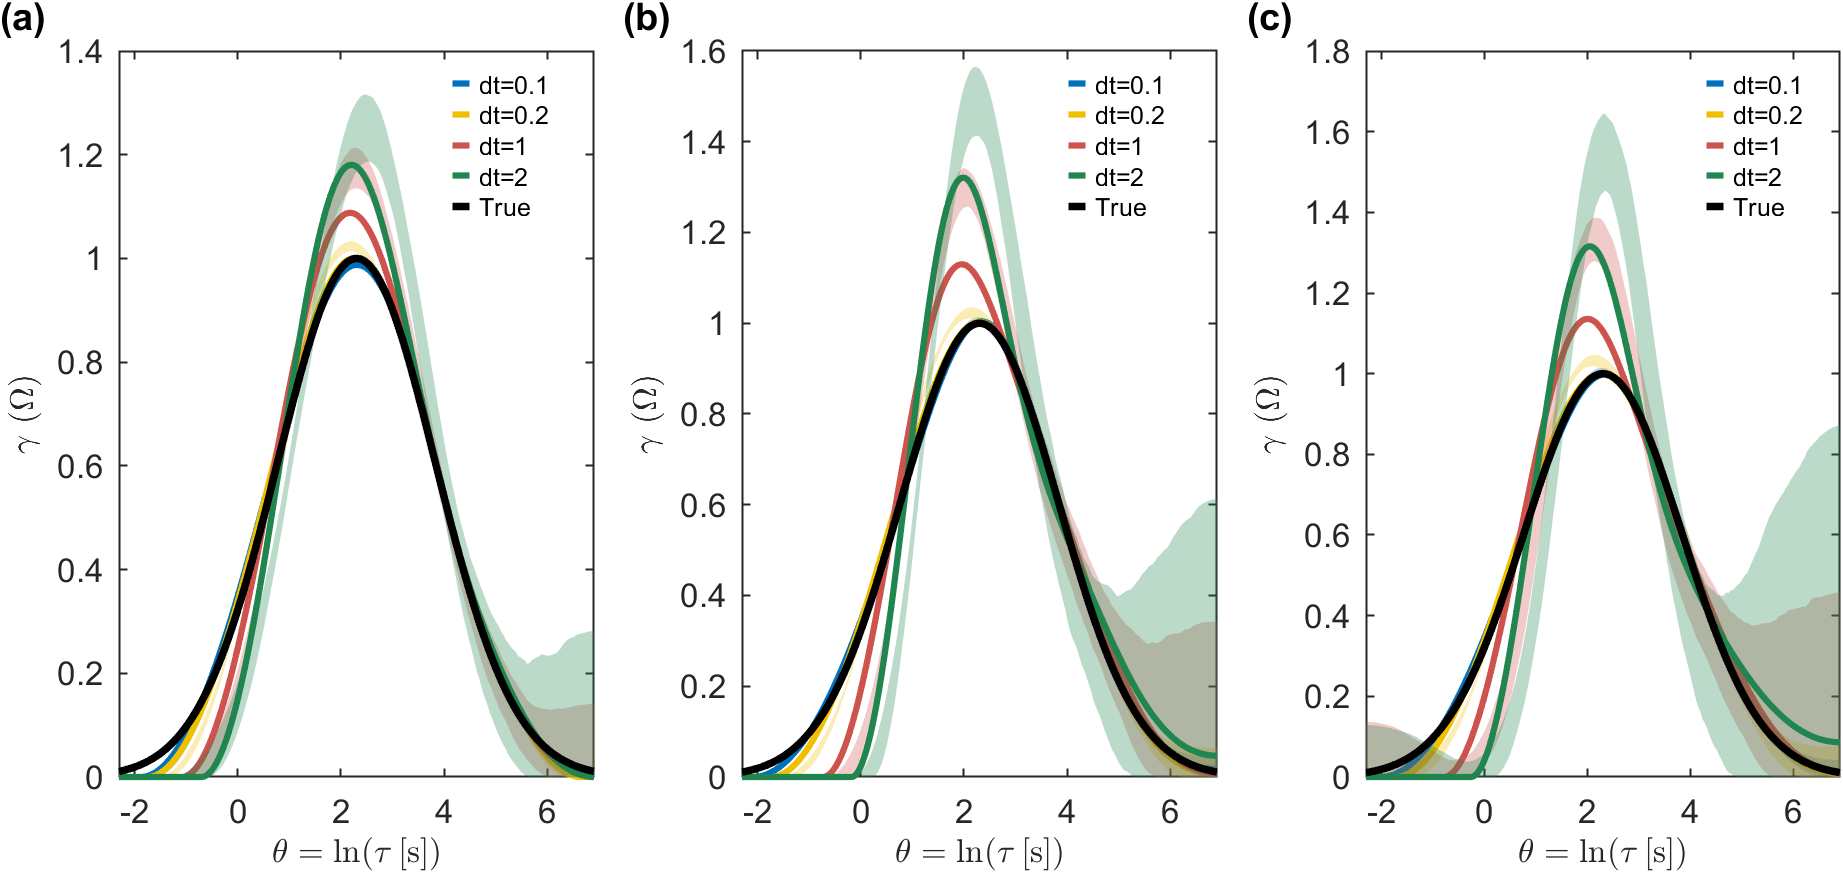
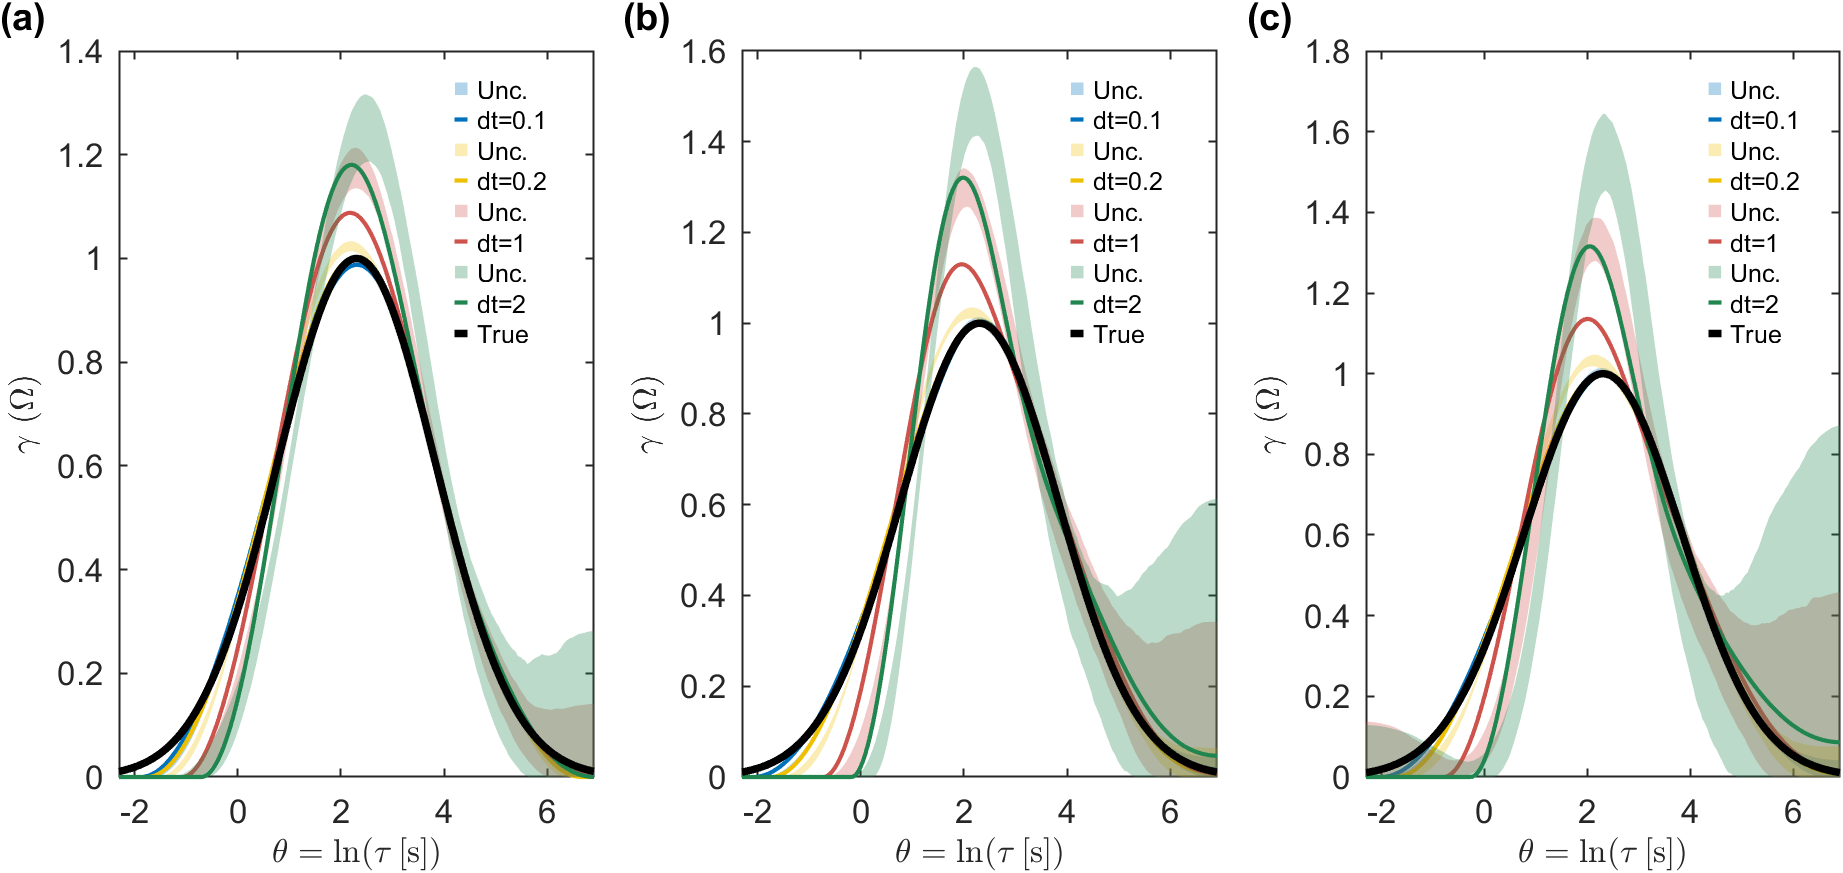
.
.

diff --git a/SD/Fig1.m b/SD/Fig1.m
@@ -36,7 +36,7 @@ annOffsetY =  0.03;
 % ---------------------------
 % (D) Line / Font styles
 % ---------------------------
-lineWidthValue    = 1.5;   % 선 굵기
+lineWidthValue    = 1;   % 선 굵기
 fillAlpha         = 0.3;   % fill 투명도
 axisFontSize      = 8;     % 축 라벨/틱 폰트 크기
 legendFontSize    = 6;     % 범례 폰트 크기
@@ -56,8 +56,7 @@ legendPosC = [0.67 0.11 0.25 0.10];  % (c)
 % ---------------------------
 %  -> (c) subplot에서 축 라벨을 축과 더 가깝게 (혹은 멀게) 조정
 currentLabelOffsetX = +0.05;  % 왼쪽 축 라벨 X 위치를 기존 대비 +0.05
-voltageLabelOffsetX = -30;  % 오른쪽 축 라벨 X 위치를 기존 대비 -0.05
-% 음수면 축 쪽으로 이동, 양수면 축 반대방향으로 이동
+voltageLabelOffsetX = -30;    % 오른쪽 축 라벨 X 위치를 기존 대비 (값 조정)
 
 %% (1) Load Data
 load('DRT_estimation_results.mat','drt_output');
@@ -111,10 +110,13 @@ gamma_est_uni   = drt_output(1).scenario(s).gamma_est;
 gamma_lower_uni = drt_output(1).scenario(s).gamma_lower;
 gamma_upper_uni = drt_output(1).scenario(s).gamma_upper;
 
-fill([theta_est_uni; flipud(theta_est_uni)], ...
+% -- Fill area for Uncertainty (now displayed in legend)
+h_fill_uni = fill([theta_est_uni; flipud(theta_est_uni)], ...
      [gamma_lower_uni; flipud(gamma_upper_uni)], ...
-     color_scenario1, 'FaceAlpha',fillAlpha, 'EdgeColor','none',...
-     'HandleVisibility','off');
+     color_scenario1, ...
+     'FaceAlpha',fillAlpha, ...
+     'EdgeColor','none', ...
+     'DisplayName','Unc.');
 hold on;
 
 h_est_uni = plot(theta_est_uni, gamma_est_uni, ...
@@ -127,11 +129,12 @@ h_true_uni = plot(theta_true_uni, gamma_true_uni, ...
     'DisplayName','True \gamma');
 
 xlabel('\theta','FontSize',axisFontSize);
-ylabel('\gamma [\Omega]','FontSize',axisFontSize);  % gamma 단위 예시
+ylabel('\gamma [\Omega]','FontSize',axisFontSize);
 set(ax1,'XColor','k','YColor','k','Box','on');
 hold off;
 
-lgdA = legend([h_est_uni, h_true_uni],...
+% -- Legend includes the fill handle
+lgdA = legend([h_est_uni, h_fill_uni, h_true_uni], ...
     'Location','none','FontSize',legendFontSize);
 lgdA.Position      = legendPosA;
 lgdA.Box           = 'off';
@@ -149,10 +152,13 @@ gamma_est_bi   = drt_output(2).scenario(s).gamma_est;
 gamma_lower_bi = drt_output(2).scenario(s).gamma_lower;
 gamma_upper_bi = drt_output(2).scenario(s).gamma_upper;
 
-fill([theta_est_bi; flipud(theta_est_bi)], ...
+% -- Fill area for Uncertainty
+h_fill_bi = fill([theta_est_bi; flipud(theta_est_bi)], ...
      [gamma_lower_bi; flipud(gamma_upper_bi)], ...
-     color_scenario1, 'FaceAlpha',fillAlpha, 'EdgeColor','none',...
-     'HandleVisibility','off');
+     color_scenario1, ...
+     'FaceAlpha',fillAlpha, ...
+     'EdgeColor','none', ...
+     'DisplayName','Unc.');
 hold on;
 
 h_est_bi = plot(theta_est_bi, gamma_est_bi, ...
@@ -169,7 +175,8 @@ ylabel('\gamma [\Omega]','FontSize',axisFontSize);
 set(ax2,'XColor','k','YColor','k','Box','on');
 hold off;
 
-lgdB = legend([h_est_bi, h_true_bi],...
+% -- Legend includes the fill handle
+lgdB = legend([h_est_bi, h_fill_bi, h_true_bi], ...
     'Location','none','FontSize',legendFontSize);
 lgdB.Position      = legendPosB;
 lgdB.Box           = 'off';
@@ -209,6 +216,7 @@ h_biV  = plot(time_1, volt_bi, ...
     'DisplayName','Bimodal Voltage');
 ylabel('Voltage (V)','FontSize',axisFontSize);
 set(ax3,'YColor','k');  % 오른축 검정
+
 % --- 오른쪽 축 라벨 위치 오프셋 ---
 posRightLabel = get(ax3.YAxis(2).Label,'Position');
 posRightLabel(1) = posRightLabel(1) + voltageLabelOffsetX;
@@ -243,12 +251,11 @@ annotation('textbox',[posC(1)+annOffsetX, posC(2)+posC(4)+annOffsetY, 0.03, 0.03
     'EdgeColor','none','Color','k');
 
 %% ================== (Optional) Figure 저장 =====================
-% 1) 최신버전(R2020a+): 
+% 1) 최신버전(R2020a+):
 exportgraphics(gcf, 'Figure_DRTPLOT.png','Resolution',300);
 % 
-% 2) 구버전:
+% 2) 구버전 사용 시 예시:
 %    set(gcf,'PaperPositionMode','auto');
 %    print(gcf,'-dpng','Figure_DRTPLOT.png','-r300');
-%
 
 

diff --git a/SD/Supplyfig1.m b/SD/Supplyfig1.m
@@ -2,12 +2,12 @@
 clc; clear; close all;
 
 % ----- 공통 스타일 파라미터 -----
-lineWidthValue     = 1.5;  % 선 굵기
+lineWidthValue     = 1;  % 선 굵기
 fillAlpha          = 0.3;  % 불확도 영역 투명도
 axisFontSize       = 8;    % x, y축 라벨 및 tick 폰트 크기
 legendFontSize     = 6;    % 범례 폰트 크기
 annotationFontSize = 9;    % (a), (b), (c) 라벨 폰트 크기
-legendTokenSize    = 4;    % 범례 아이콘(박스/선) 길이
+legendTokenSize    = 3;    % 범례 아이콘(박스/선) 길이
 
 % ----- Subplot Labels 및 위치 설정 -----
 subplotLabels = {'(a)','(b)','(c)'}; 
@@ -25,9 +25,9 @@ topMargin    = 0.08;
 bottomMargin = 0.15;
 midGap       = 0.07;  
 
-legendPosA = [0.25, 0.77, 0.10, 0.10];
-legendPosB = [0.54, 0.77, 0.10, 0.10];
-legendPosC = [0.84, 0.77, 0.10, 0.10];
+legendPosA = [0.25, 0.70, 0.10, 0.10];
+legendPosB = [0.54, 0.70, 0.10, 0.10];
+legendPosC = [0.84, 0.70, 0.10, 0.10];
 
 % ----- 색상 팔레트 정의 -----
 p_colors = [
@@ -104,7 +104,7 @@ for i = 1:numScenarios
     end
     selData = AS_data(matchIdx);
 
-    % (5-2) 타입별 추정치 및 불확도 구간 플롯
+    % (5-2) 타입별 추정치 및 불확도(불확실성) 구간을 각각 플롯
     for d = 1:numel(selData)
         tname       = selData(d).type;
         cidx        = find(strcmp(typeGroup, tname));  % 색깔 인덱스
@@ -113,15 +113,15 @@ for i = 1:numScenarios
         gamma_lower = selData(d).gamma_lower;
         gamma_upper = selData(d).gamma_upper;
 
-        % 불확도 영역 (fill)
+        % ── (A) 불확도 영역 (Uncertainty)
         fill([theta_est; flipud(theta_est)], ...
              [gamma_lower; flipud(gamma_upper)], ...
              p_colors(cidx,:), ...
              'FaceAlpha', fillAlpha, ...
              'EdgeColor','none', ...
-             'HandleVisibility','off');
+             'DisplayName','Unc.');  % 범례에 "Unc."로 표시
 
-        % 추정 곡선 (legend 표시)
+        % ── (B) 추정 곡선
         plot(theta_est, gamma_est, ...
              'LineWidth', lineWidthValue, ...
              'Color', p_colors(cidx,:), ...
@@ -129,7 +129,6 @@ for i = 1:numScenarios
     end
 
     % (5-3) 참값 곡선 (Gamma_unimodal) 플롯
-    %      모든 subplot에서 동일한 참값을 그린다고 가정
     plot(theta_true, gamma_true, ...
          'k-', 'LineWidth', 1.8, ...
          'DisplayName', 'True'); 

diff --git a/SD/SD_Run_DRT_shadow.m b/SD/SD_Run_DRT_shadow.m
@@ -91,7 +91,7 @@ gamma_lower_all    = cell(num_scenarios, 1);
 gamma_upper_all    = cell(num_scenarios, 1);
 
 % Variables to store uncertainty estimation results
-num_resamples = 100;  % Number of bootstrap resamples
+num_resamples = 500;  % Number of bootstrap resamples
 gamma_resample_all_scenarios = cell(num_scenarios, 1);
 
 % Loop over scenarios
